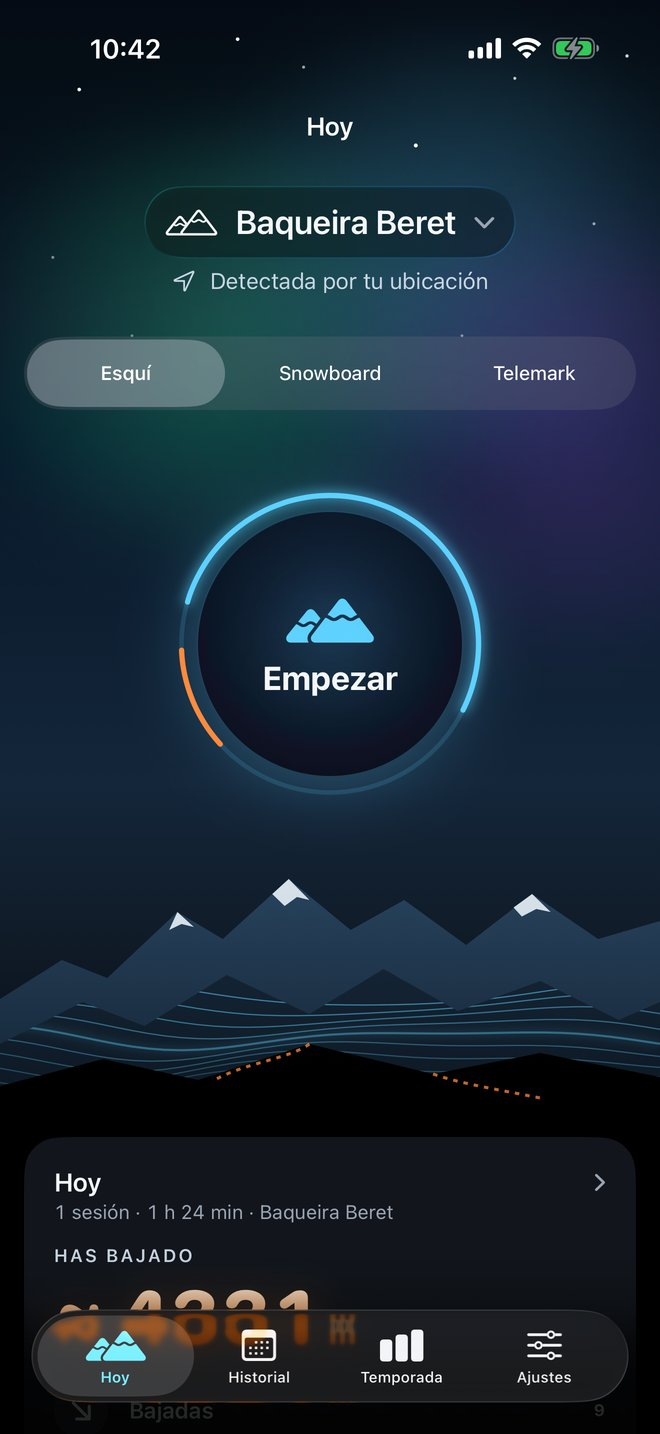
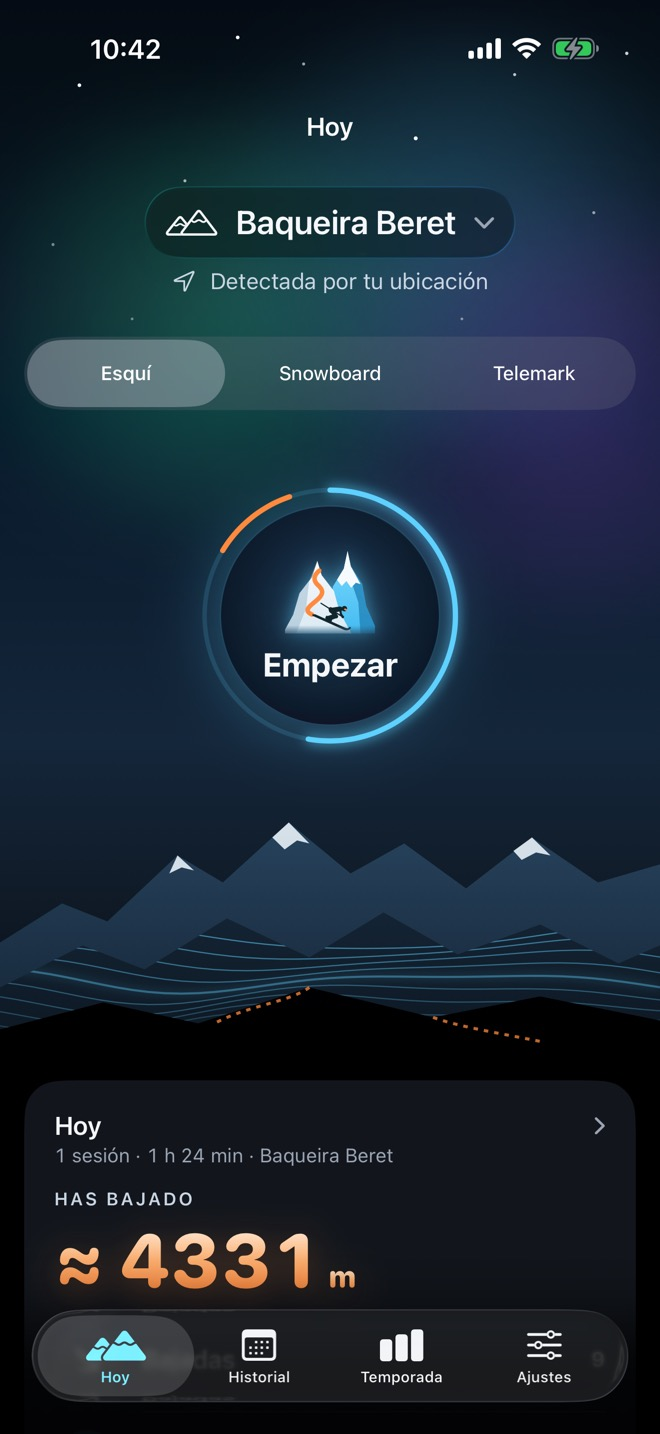
Portada en español: la nueva pantalla Hoy (#24)
Claude-Session: https://claude.ai/code/session_014E4hTPbcahqZyZpaTTnay8

diff --git a/index.html b/index.html
@@ -168,7 +168,7 @@
       <p>Al abrir la app, Hoy te dice en qué estación estás, lo que llevas en el día o, si hoy no has esquiado, tu último día: bajadas, desnivel, velocidad máxima y, con Apple Watch, pulso y kcal. Toca la estación para ver las cercanas o buscar otra. Elige esquí, snowboard o telemark y empieza.</p>
     </div>
     <div class="telefonos">
-      <div class="telefono"><img src="img/06-hoy.jpg" alt="Hoy: Baqueira Beret, detectada por tu ubicación, la actividad y el botón Empezar sobre la cordillera" loading="lazy"></div>
+      <div class="telefono"><img src="img/06-hoy.jpg" alt="Hoy: Baqueira Beret, detectada por tu ubicación, la actividad, el botón Empezar con el logo de la app sobre la cordillera y la tarjeta del día con el desnivel" loading="lazy"></div>
     </div>
   </section>
 
